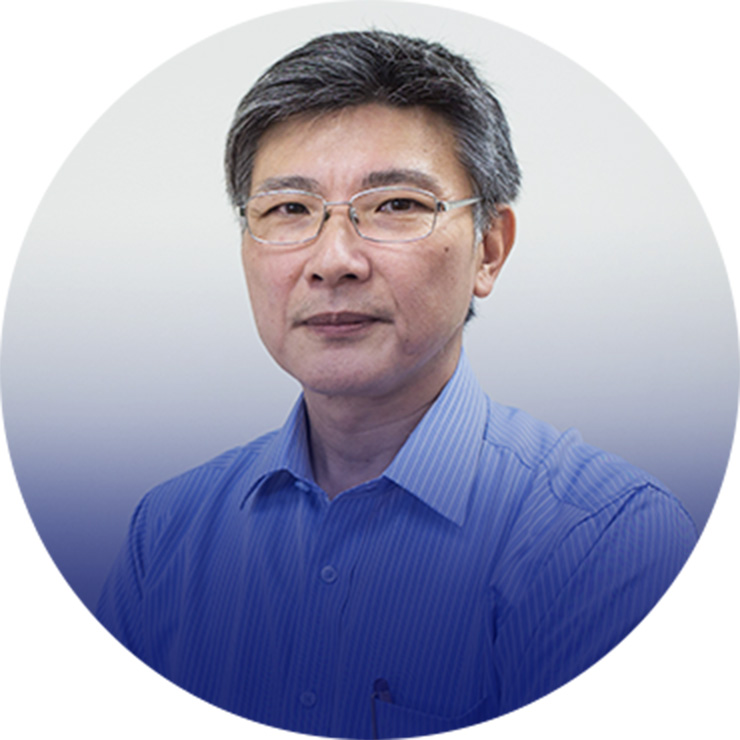
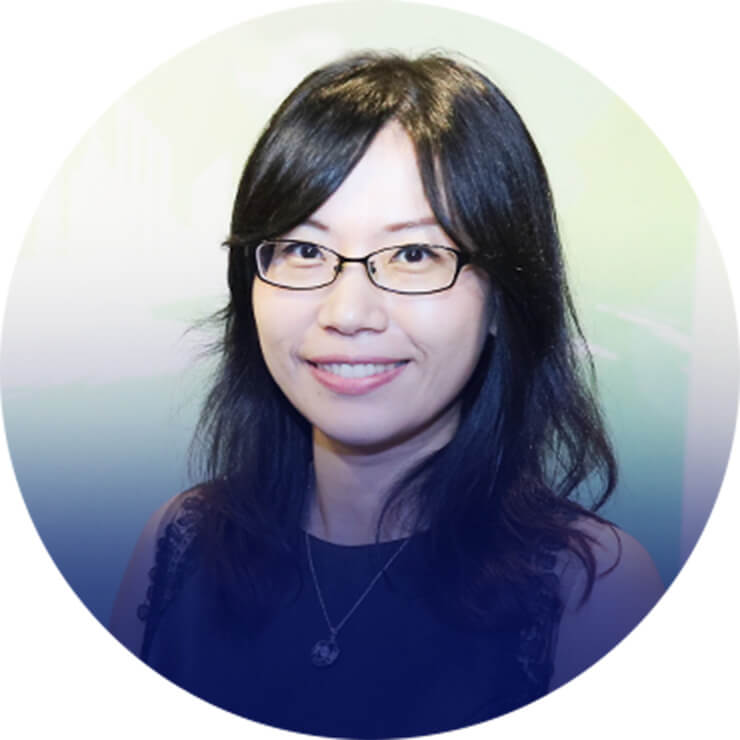
[Update]增加彰化場講師

diff --git a/pages/index.vue b/pages/index.vue
@@ -191,7 +191,7 @@
                             <div class="subject">
                                 <h2 class="f18 f_white">綜合座談暨交流Q&A</h2>
                                 <span class="f_blue">
-                                    輔佐繼承者們HR成功秘笈
+                                    輔佐繼承者們的HR成功秘笈
                                 </span>
                             </div>
 
@@ -375,11 +375,12 @@ export default {
         allSpeakers: [
             //FIXME: 可選彰化場
             {session: '彰化場', name:'詹賀博', photo: require('@/assets/img/speaker-5.jpg'), title: '光隆實業 董事長', subject:'專題演講一', hashtag: '＃跟對老闆不如幫對老闆<br />── 二代接班的HR角色怎麼演?'},
-            {session: '彰化場', name:'許士軍', photo: require('@/assets/img/speaker-4.jpg'), title: '逢甲大學人言講座教授', subject:'綜合座談暨交流Q&A', hashtag: '#輔佐繼承者們HR成功秘笈'},
+            {session: '彰化場', name:'許士軍', photo: require('@/assets/img/speaker-4.jpg'), title: '逢甲大學人言講座教授', subject:'專題演講二', hashtag: '#老將or新兵?用對的都是好兵!<br />── HR的跨世代用人哲學'},
+            {session: '彰化場', name:'林珮萱', photo: require('@/assets/img/speaker-6.jpg'), title: '《遠見雜誌》資深撰述', subject:'綜合座談暨交流Q&A ', hashtag: '#輔佐繼承者們的HR成功秘笈'},
             {session: '台中場', name:'簡士評', photo: require('@/assets/img/speaker-3.jpg'), title: 'MAYO鼎恒數位創辦人暨執行長', subject:'專題演講一 ', hashtag: '#新科技帶來新企業，<br />未來人才你挑對了嗎?'},
             {session: '台中場', name:'謝鄭忠', photo: require('@/assets/img/speaker-2.jpg'), title: '宇瞻科技行政服務處處長', subject:'專題演講二', hashtag: '#迎向數位轉型，<br />人資要比老闆清楚的那件事'},
             {session: '台中場', name:'盧世安', photo: require('@/assets/img/speaker-1.jpg'), title: '人資小週末專業社群創辦人', subject:'綜合座談暨交流Q&A ', hashtag: '#智慧浪潮來襲，<br />HR如何領軍站上浪頭'},
-            // {session: '彰化場', name:'林文政', photo: require('@/assets/img/speaker-6.jpg'), title: '國立中央大學<br />人力資源管理研究所副教授', subject:'綜合座談暨交流Q&A ', hashtag: '#輔佐繼承者們HR成功秘笈'},
+
         ],
 
       }
